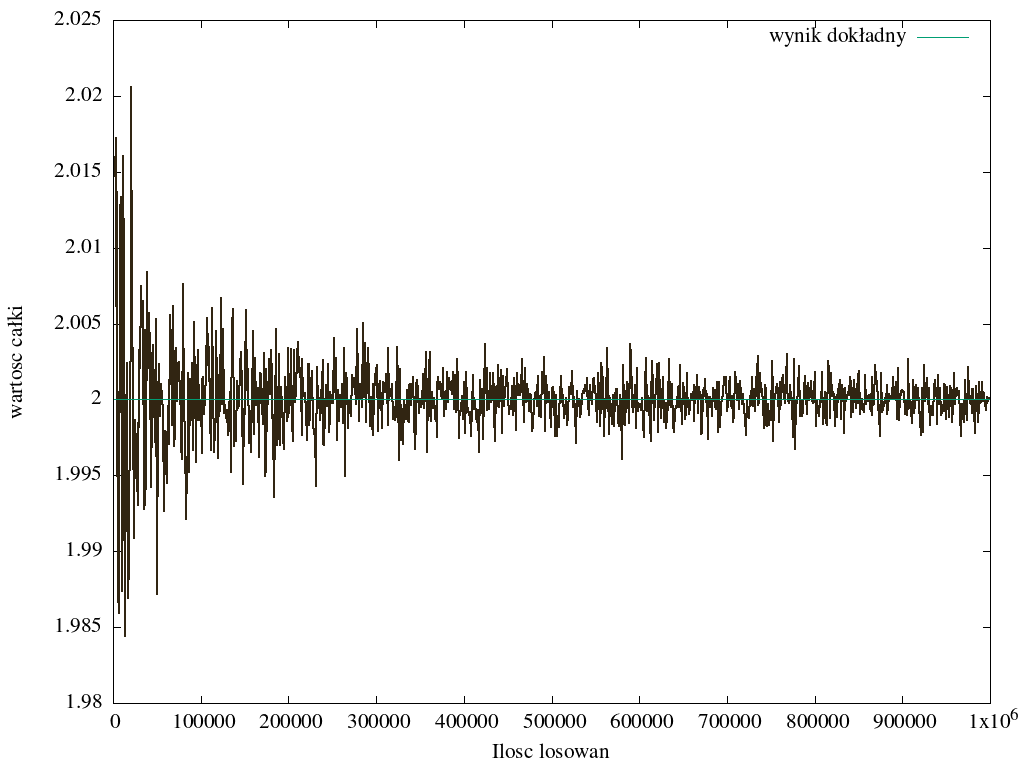
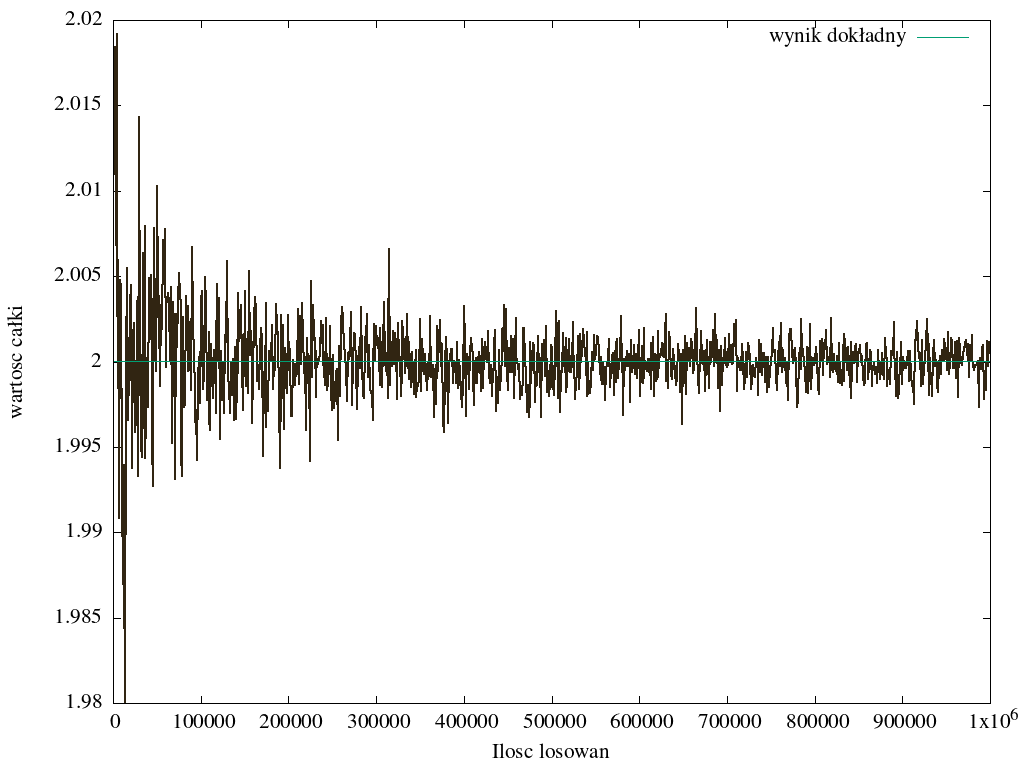
Com1

Changed region(s): [[0.0625, 0.0625, 0.9688, 0.8438], [0.0625, 0.0, 0.0938, 0.0312]]

diff --git a/main.cpp b/main.cpp
@@ -3,6 +3,8 @@
 #include <ctime>
 #include <cstdlib>
 #include <fstream>
+#include <string>
+#include <tuple>
 
 using namespace std;
 
@@ -13,43 +15,28 @@ double g(double x)
     return sin(x);
 }
 
-double approx1D(int N, double a, double b)
+tuple <double,double> MC1D(int N, double a, double b)
 {
     double S=0;
     for(int i = 0;i<N;i++)
     {
         S += g(a+(b-a)*rand()/(RAND_MAX+1.));
     }
-    return (double) S*((b-a)/(double)N);
+    return {(double) S*((b-a)/(double)N),0};
 }
 
-double approx2D(int N)
+void approx1D(int N, double a, double b, double intVal)
 {
-    double S=0;
-    for(int i = 0;i<N;i++)
-    {
-        S += g(rand()/((double)RAND_MAX) + rand()/((double)RAND_MAX));
-    }
-    return (double) S/N;
-}
-
-int main()
-{
-    srand(time(NULL));
-
     fstream file;
-
 
     system("touch data.dat");
     file.open("data.dat");
 
     cout << "Aproksymacja wielu całek dla różnej ilości próbek:" << endl;  
 
-    int N = 1000000;
-
-    for(int i = 0; i <N; i+= 1000)
+    for(int i = 0; i < N; i+= 1000)
     {
-        file << i << " " <<approx1D(i,0,M_PI) << " " << 2 << "\n"; 
+        file << i << " " << get<0>(MC1D(i,a,b)) << " " << intVal << "\n"; 
         cout << "In progress: " << (double)i/N*100 << "%" << "\n";
     }
 
@@ -57,23 +44,36 @@ int main()
 
     file.close();
 
+}
+
+void app1sam(int N, double a, double b, double intVal)
+{
+    fstream file;
+
     cout << "Aproksymacja jednej całki -> pattern" << endl;
  
     system("touch data2.dat");
     file.open("data2.dat");
     
-    double a = 0; double b = M_PI;
-    N = 100000; double S=0;
+    double S=0;
     
     for(int i = 1;i<N;i++)
     {
         S += g(a+(b-a)*rand()/(RAND_MAX+1.));
-        file << i << " " << S*((b-a)/(double)i) << " " << 2 << endl;
+        file << i << " " << S*((b-a)/(double)i) << " " << intVal << endl;
         cout << "In progress: " << (double)i/N*100 << "%" << "\n";
     }
 
     file.close();
+}
 
+int main()
+{
+    srand(time(NULL));
+
+    approx1D(1e6,0,M_PI,2);
+    app1sam(1e4,0,M_PI,2);
+    
     system("gnuplot < script.gnu");
     system("rm data.dat && rm data2.dat");
 
